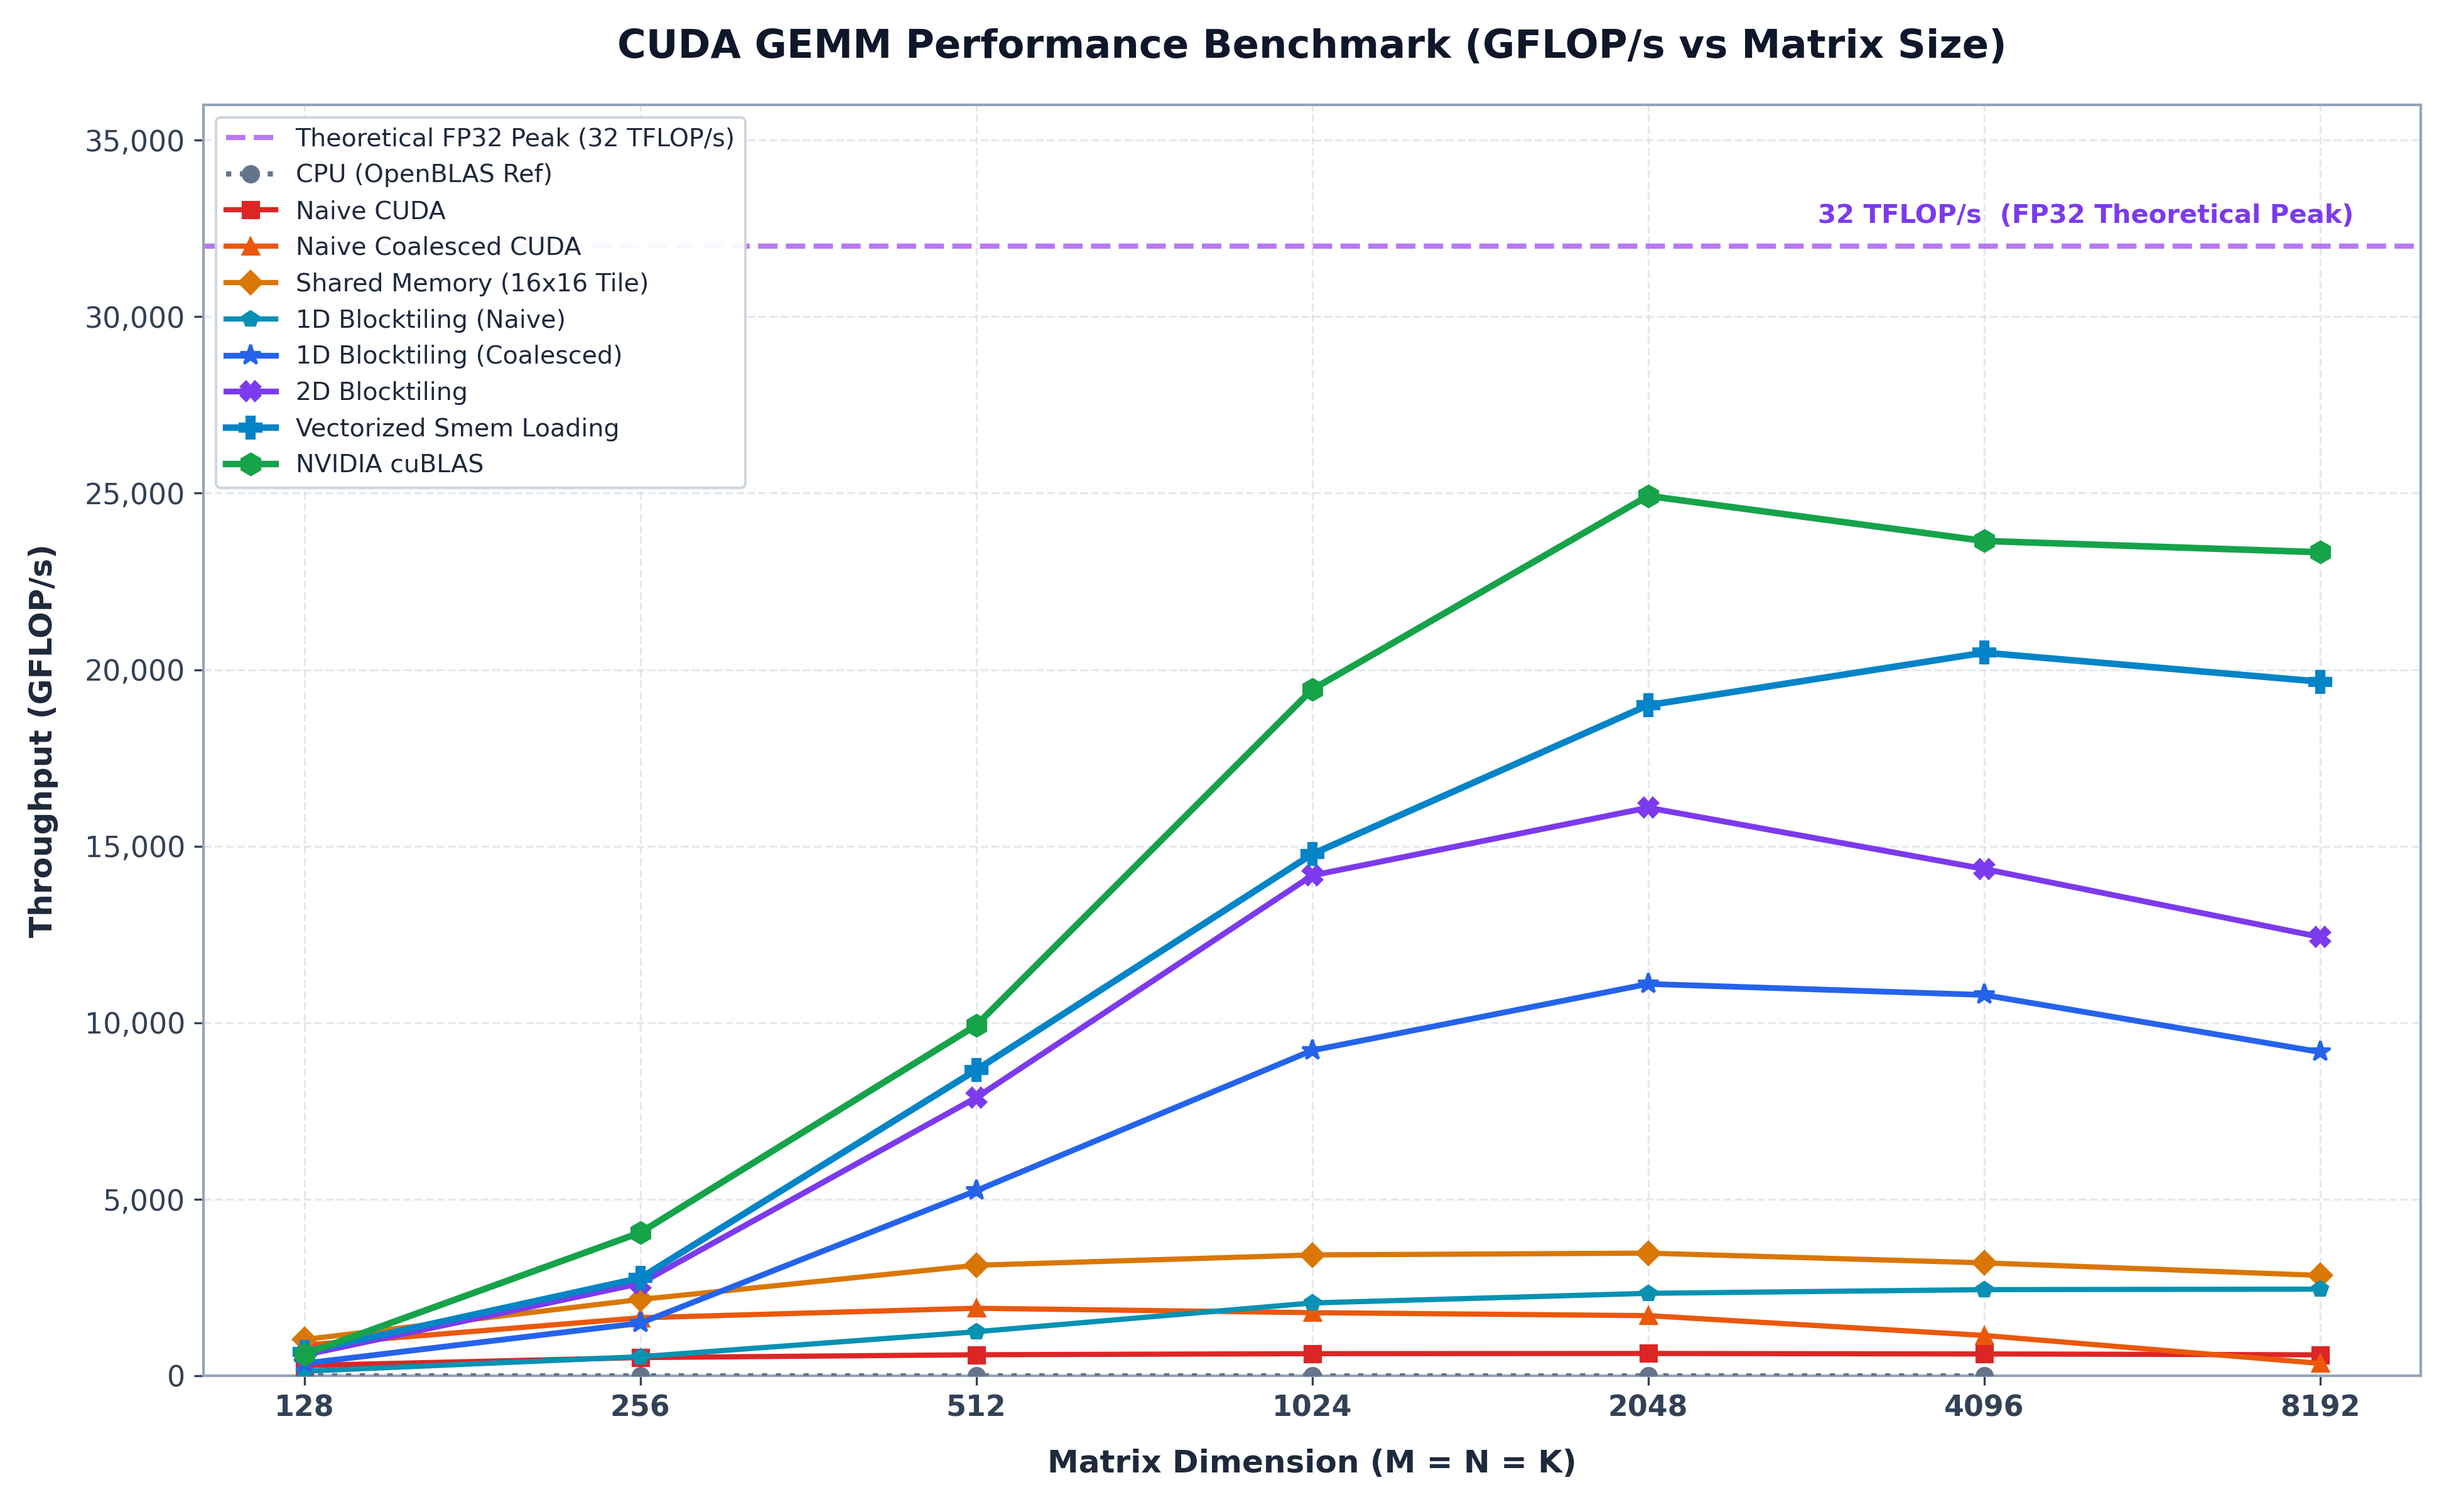
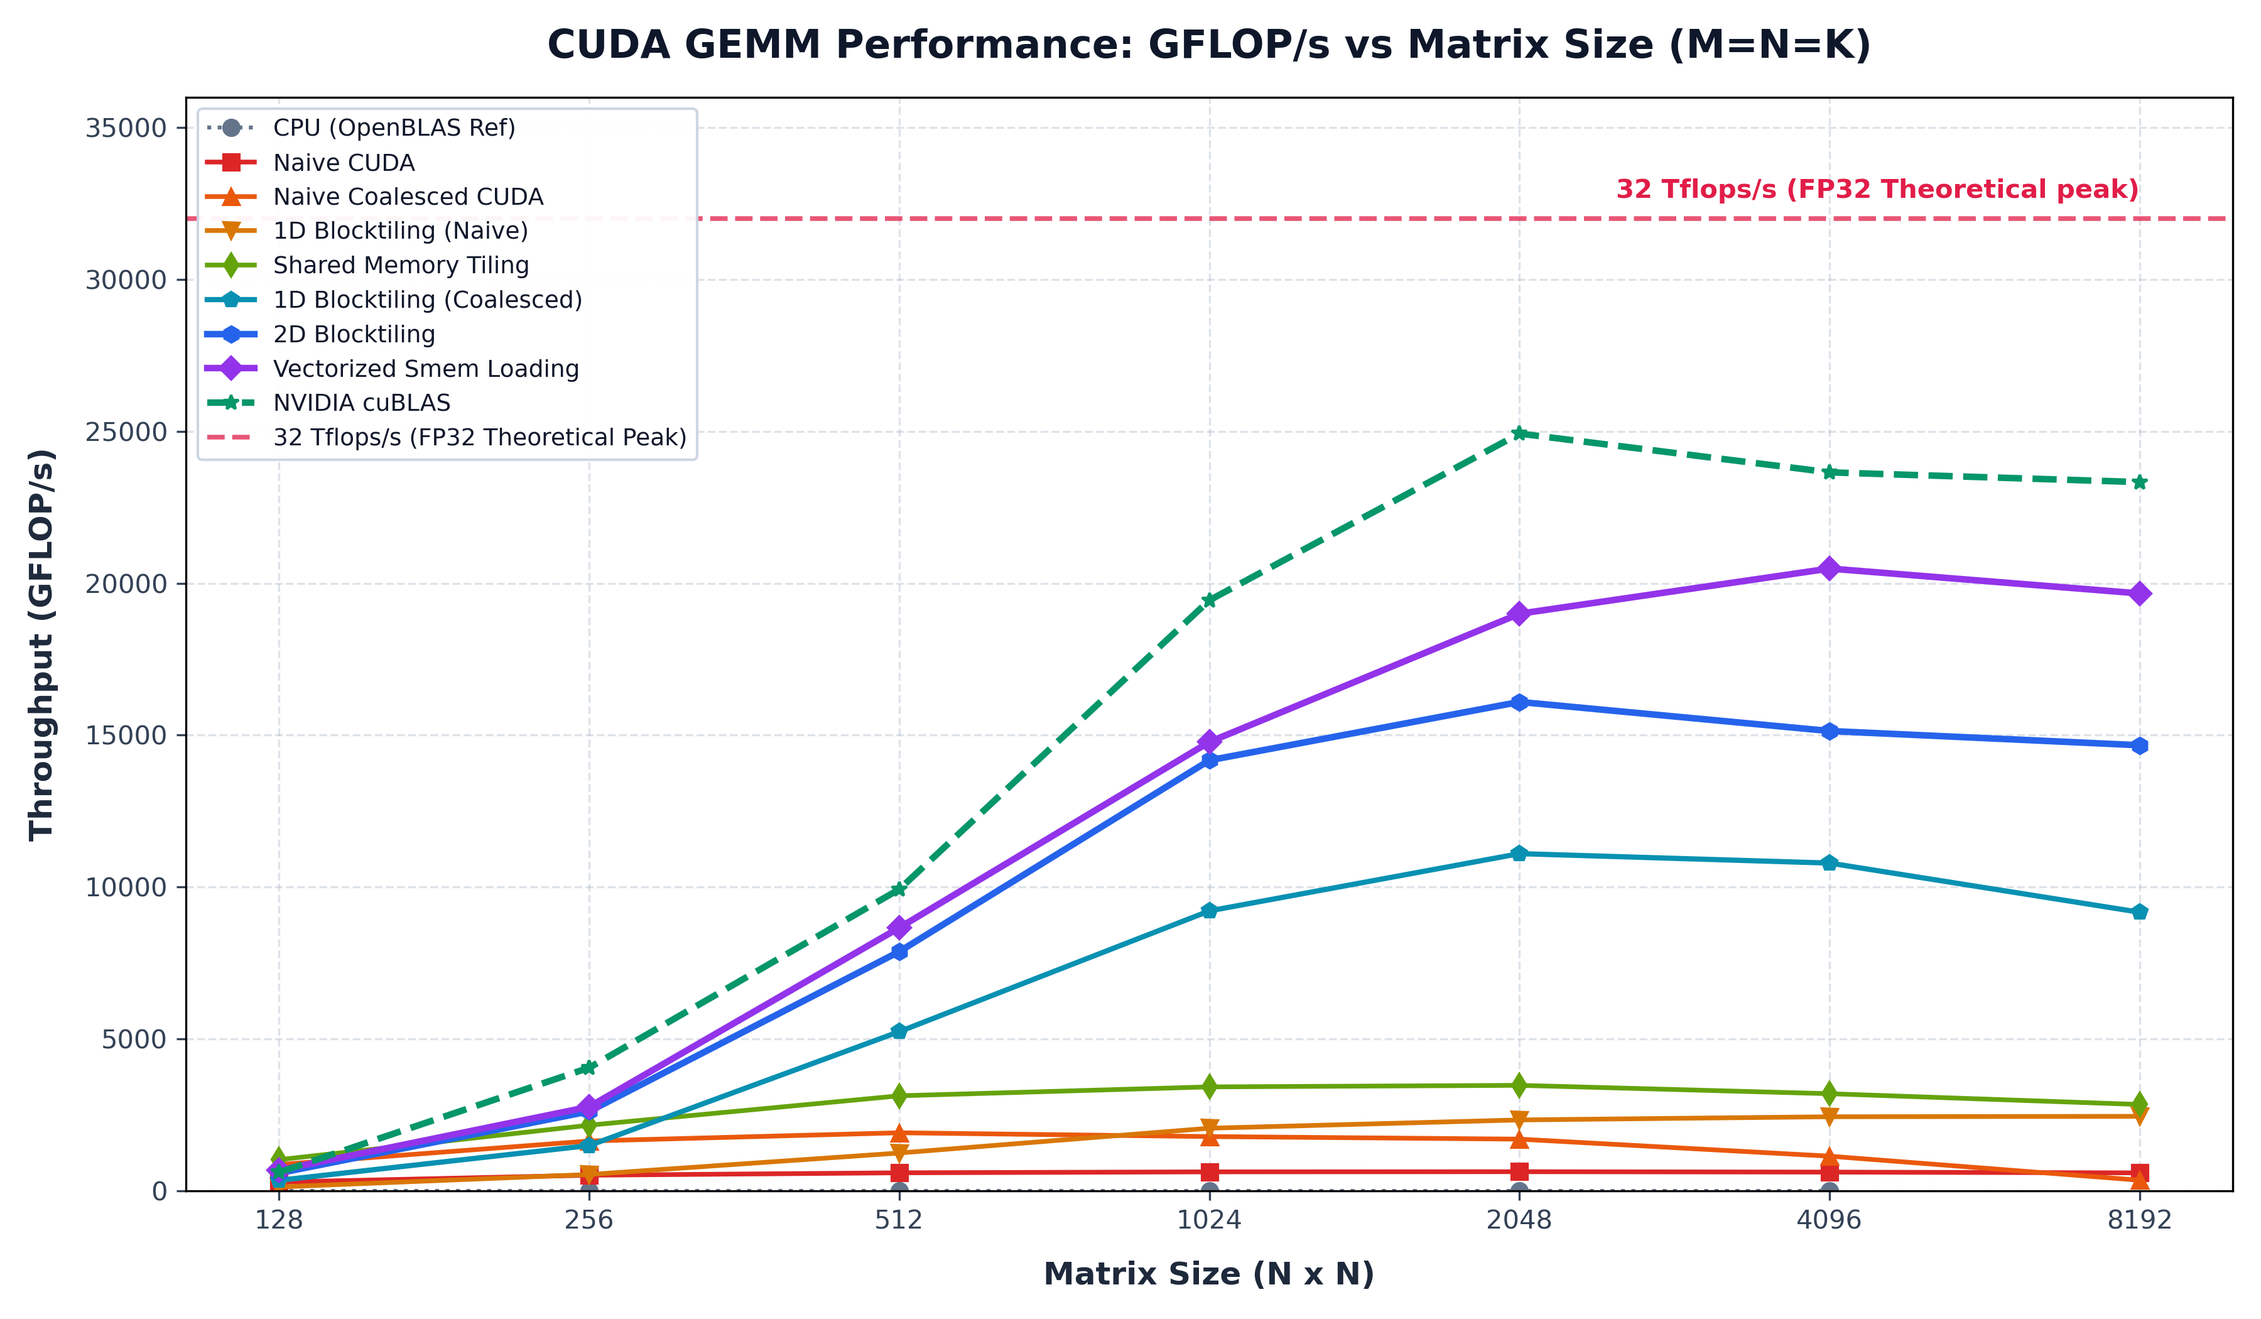
updated readme with the new 8192 dim matrix bench

diff --git a/README.md b/README.md
@@ -50,8 +50,8 @@ All benchmarks were recorded on the following system:
 | **$512 \times 512 \times 512$** | 2.34&nbsp;GFLOP/s<br>*(114.62 ms)* | 598.12&nbsp;GFLOP/s<br>*(0.4488 ms)* | 1915.34&nbsp;GFLOP/s<br>*(0.1402 ms)* | 3132.30&nbsp;GFLOP/s<br>*(0.0857 ms)* | 1249.44&nbsp;GFLOP/s<br>*(0.2148 ms)* | 5243.86&nbsp;GFLOP/s<br>*(0.0512 ms)* | 7879.59&nbsp;GFLOP/s<br>*(0.0341 ms)* | 8664.13&nbsp;GFLOP/s<br>*(0.0310 ms)* | **9928.52&nbsp;GFLOP/s**<br>*(0.0270 ms)* |
 | **$1024 \times 1024 \times 1024$** | 1.45&nbsp;GFLOP/s<br>*(1478.30 ms)* | 629.16&nbsp;GFLOP/s<br>*(3.413 ms)* | 1790.41&nbsp;GFLOP/s<br>*(1.199 ms)* | 3425.44&nbsp;GFLOP/s<br>*(0.6269 ms)* | 2065.08&nbsp;GFLOP/s<br>*(1.040 ms)* | 9217.36&nbsp;GFLOP/s<br>*(0.2330 ms)* | 14173.54&nbsp;GFLOP/s<br>*(0.1515 ms)* | 14776.16&nbsp;GFLOP/s<br>*(0.1453 ms)* | **19440.29&nbsp;GFLOP/s**<br>*(0.1105 ms)* |
 | **$2048 \times 2048 \times 2048$** | 0.81&nbsp;GFLOP/s<br>*(21298.78 ms)* | 634.46&nbsp;GFLOP/s<br>*(27.08 ms)* | 1706.15&nbsp;GFLOP/s<br>*(10.07 ms)* | 3476.63&nbsp;GFLOP/s<br>*(4.942 ms)* | 2337.99&nbsp;GFLOP/s<br>*(7.348 ms)* | 11101.55&nbsp;GFLOP/s<br>*(1.548 ms)* | 16093.69&nbsp;GFLOP/s<br>*(1.067 ms)* | **18996.48&nbsp;GFLOP/s**<br>*(0.9044 ms)* | **24924.54&nbsp;GFLOP/s**<br>*(0.6893 ms)* |
-| **$4096 \times 4096 \times 4096$** | 0.35&nbsp;GFLOP/s<br>*(395621.22 ms)* | 621.23&nbsp;GFLOP/s<br>*(221.24 ms)* | 1145.32&nbsp;GFLOP/s<br>*(120.00 ms)* | 3201.09&nbsp;GFLOP/s<br>*(42.94 ms)* | 2442.67&nbsp;GFLOP/s<br>*(56.27 ms)* | 10790.70&nbsp;GFLOP/s<br>*(12.74 ms)* | 14359.50&nbsp;GFLOP/s<br>*(9.571 ms)* | **20483.71&nbsp;GFLOP/s**<br>*(6.710 ms)* | **23648.83&nbsp;GFLOP/s**<br>*(5.812 ms)* |
-| **$8192 \times 8192 \times 8192$** | N/A | 595.95&nbsp;GFLOP/s<br>*(1844.98 ms)* | 354.47&nbsp;GFLOP/s<br>*(3101.83 ms)* | 2846.37&nbsp;GFLOP/s<br>*(386.29 ms)* | 2456.85&nbsp;GFLOP/s<br>*(447.53 ms)* | 9172.77&nbsp;GFLOP/s<br>*(119.87 ms)* | 12432.11&nbsp;GFLOP/s<br>*(88.44 ms)* | **19663.92&nbsp;GFLOP/s**<br>*(55.92 ms)* | **23328.82&nbsp;GFLOP/s**<br>*(47.13 ms)* |
+| **$4096 \times 4096 \times 4096$** | 0.35&nbsp;GFLOP/s<br>*(395621.22 ms)* | 621.23&nbsp;GFLOP/s<br>*(221.24 ms)* | 1145.32&nbsp;GFLOP/s<br>*(120.00 ms)* | 3201.09&nbsp;GFLOP/s<br>*(42.94 ms)* | 2442.67&nbsp;GFLOP/s<br>*(56.27 ms)* | 10790.70&nbsp;GFLOP/s<br>*(12.74 ms)* | 15136.99&nbsp;GFLOP/s<br>*(9.080 ms)* | **20483.71&nbsp;GFLOP/s**<br>*(6.710 ms)* | **23648.83&nbsp;GFLOP/s**<br>*(5.812 ms)* |
+| **$8192 \times 8192 \times 8192$** | N/A | 595.95&nbsp;GFLOP/s<br>*(1844.98 ms)* | 354.47&nbsp;GFLOP/s<br>*(3101.83 ms)* | 2846.37&nbsp;GFLOP/s<br>*(386.29 ms)* | 2456.85&nbsp;GFLOP/s<br>*(447.53 ms)* | 9172.77&nbsp;GFLOP/s<br>*(119.87 ms)* | 14668.46&nbsp;GFLOP/s<br>*(74.96 ms)* | **19663.92&nbsp;GFLOP/s**<br>*(55.92 ms)* | **23328.82&nbsp;GFLOP/s**<br>*(47.13 ms)* |
 
 > All GPU benchmarks report **PASS** with maximum absolute numerical error bounded under $7.1 \times 10^{-4}$ against OpenBLAS reference outputs.
 
@@ -76,6 +76,19 @@ All benchmarks were recorded on the following system:
 | **2D Block Tiling** | 1.067 ms | 16093.69 GFLOP/s | 64.57% |
 | **Vectorized Smem Loading** | 0.904 ms | 18996.48 GFLOP/s | **76.22%** |
 | **NVIDIA cuBLAS** | 0.689 ms | 24924.54 GFLOP/s | **100.00%** |
+
+### $8192 \times 8192 \times 8192$ Matrix Performance Breakdown
+
+| Implementation | Execution Time | Throughput | Performance vs. cuBLAS (%) |
+| :--- | :---: | :---: | :---: |
+| **Naive CUDA** | 1844.98 ms | 595.95 GFLOP/s | 2.55% |
+| **Naive Coalesced CUDA** | 3101.83 ms | 354.47 GFLOP/s | 1.52% |
+| **1D Block Tiling (Naive)** | 447.53 ms | 2456.85 GFLOP/s | 10.53% |
+| **Shared Memory (Smem) Tiled** | 386.29 ms | 2846.37 GFLOP/s | 12.20% |
+| **1D Block Tiling (Coalesced)** | 119.87 ms | 9172.77 GFLOP/s | 39.32% |
+| **2D Block Tiling** | 74.96 ms | 14668.46 GFLOP/s | 62.88% |
+| **Vectorized Smem Loading** | 55.92 ms | 19663.92 GFLOP/s | **84.29%** |
+| **NVIDIA cuBLAS** | 47.13 ms | 23328.82 GFLOP/s | **100.00%** |
 
 1. **CPU vs GPU Baseline**: Even the naive uncoalesced CUDA kernel achieves a **~780x speedup** over single-threaded C++ GEMM at $2048 \times 2048$ matrix size due to massive parallel execution across GPU cores.
 2. **Coalesced Memory Access**: Reordering memory indexing to align contiguous thread accesses within a warp yields a **~2.69x speedup** over naive indexing at $2048 \times 2048$, resolving unaligned memory transactions.
